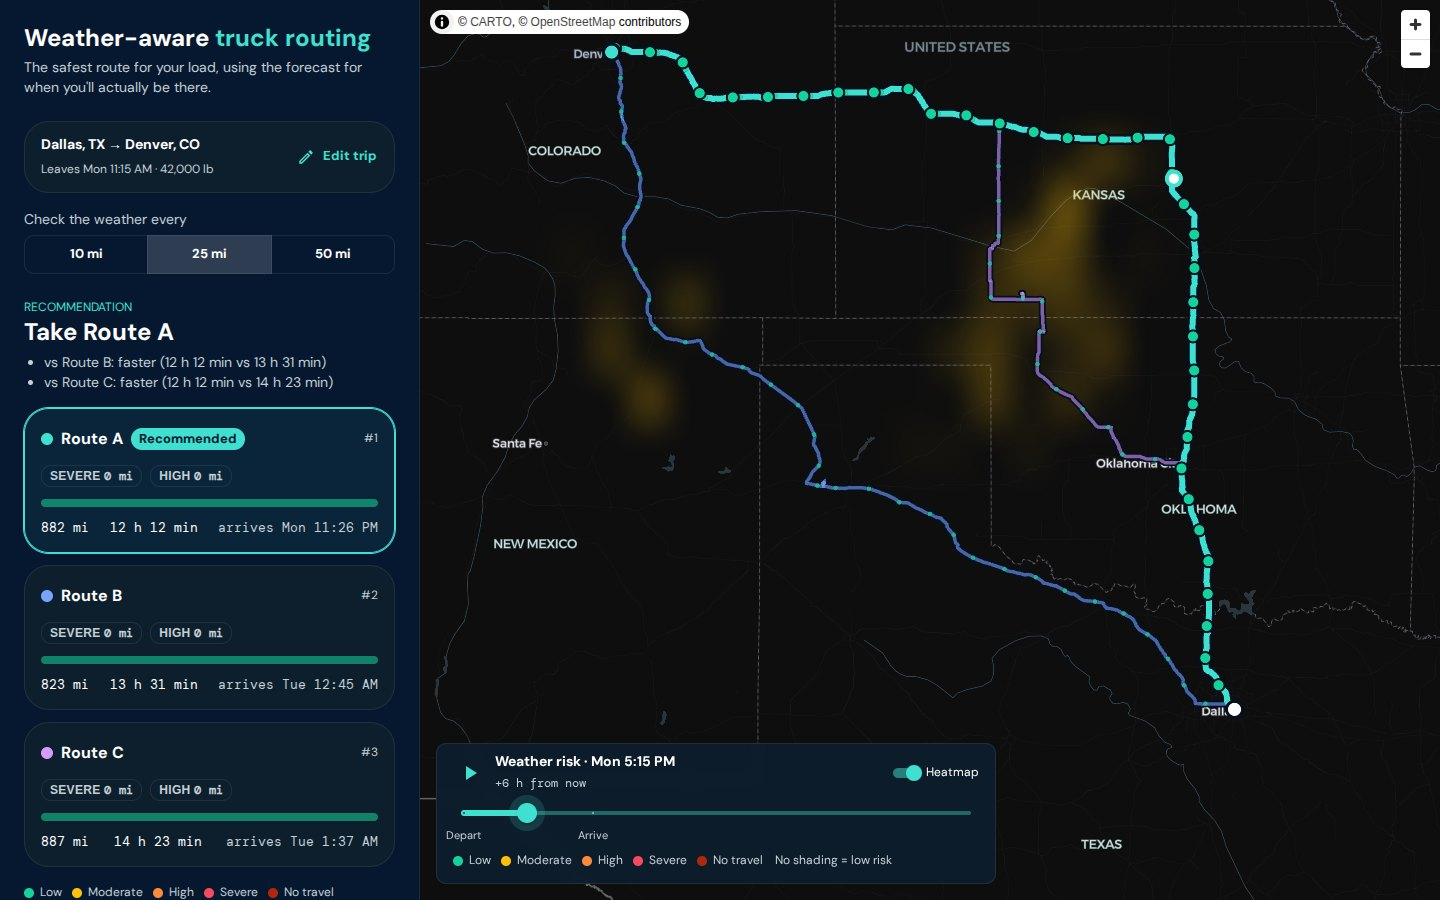
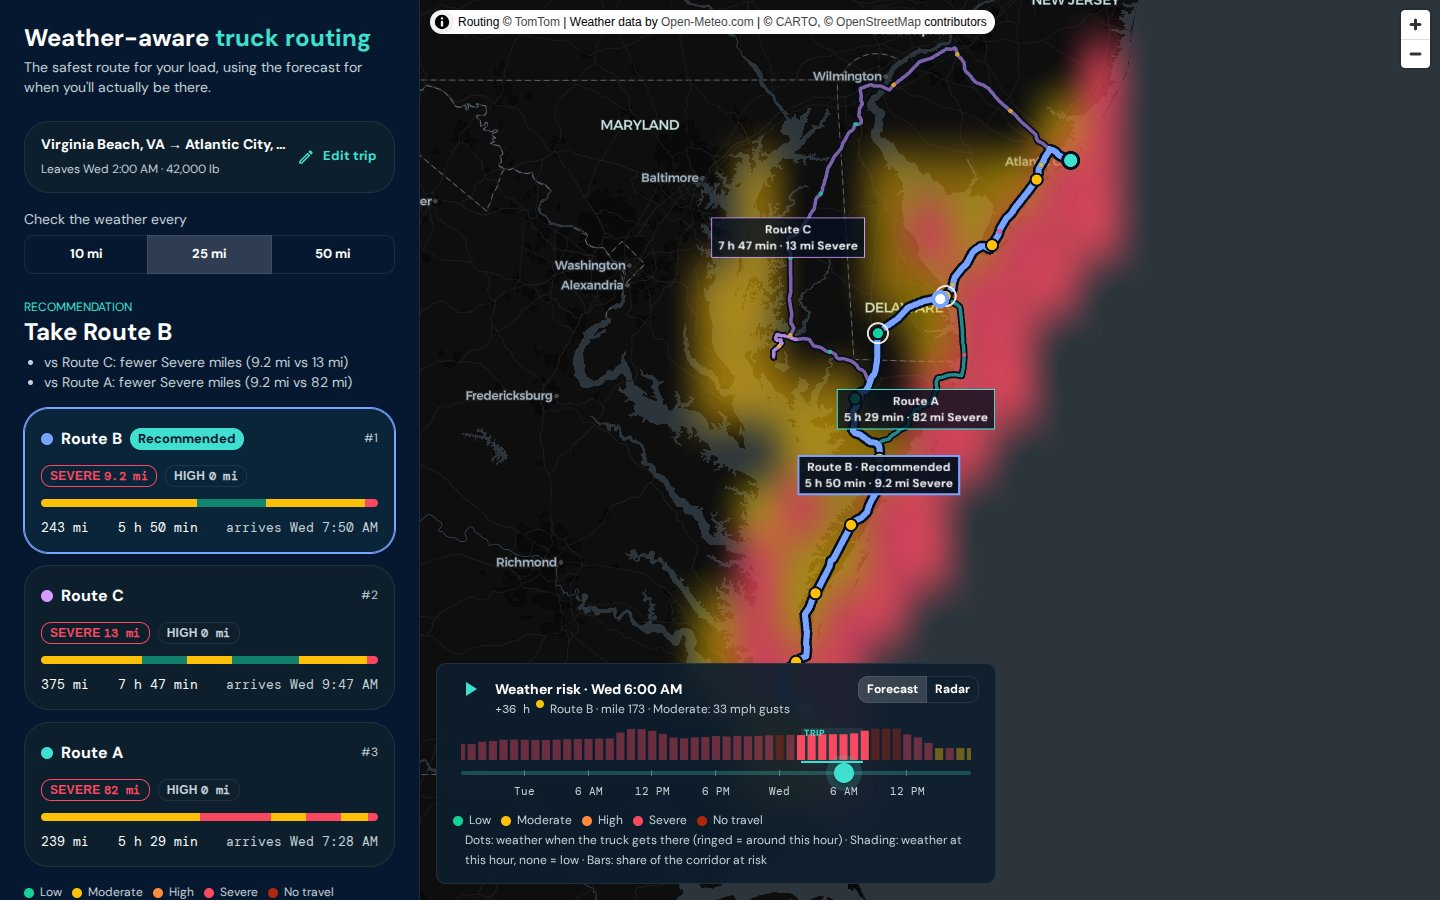
Docs: new screenshot, measured numbers refreshed, brand notes trimmed

diff --git a/README.md b/README.md
@@ -5,7 +5,7 @@ Picks the safest truck route by checking the forecast **at each checkpoint for t
 **Live app:** https://weather-truck-routing-1081490071089.us-central1.run.app
 **Walkthrough (Loom):** _link coming_
 
-![Three Dallas → Denver truck routes on a dark map, with risk-coloured checkpoints, the weather heatmap and the 0–48 h slider](docs/screenshot.jpg)
+![Three Virginia Beach → Atlantic City truck routes through a coastal wind storm, with route labels, risk-coloured checkpoints, the truck position, the forecast heatmap and the risk-over-time chart](docs/screenshot.jpg)
 
 ## What it does
 
@@ -47,7 +47,7 @@ Values within a small tolerance count as ties, so rounding noise never decides a
 | What counts as "Severe miles"? | Each checkpoint covers the road **halfway to its neighbours**, so a route's miles always add up to its length. |
 | Rain rate | Open-Meteo `rain` **+ `showers`**. Showers are reported separately, and leaving them out would miss thunderstorm downpours. |
 | Which forecast hour? | Departure + the routing API's travel time to that point, rounded to the **nearest hour**. |
-| Dots and shading disagree? | They answer different questions. A dot is the forecast **when the truck reaches it**; the shading is the whole corridor **at the slider's hour**. Next to the truck marker (the ringed dots) they line up. The shading is also coarser (cells of 0.25–1°, smoothed) to fit 49 hours in one request. |
+| Dots and shading disagree? | They answer different questions. A dot is the forecast **when the truck reaches it**; the shading is the whole corridor **at the slider's hour**. Both use the same colour per level. Next to the truck marker (the ringed dots) they line up. The shading is also coarser (cells of 0.25–1°, smoothed) to fit 49 hours in one request. |
 | Heatmap "0–48 h" | Hours from **now**, not from departure: it's a forecast for the corridor, and the hours after arrival still show whether leaving later would be safer. The trip window is highlighted and the status line says when the truck hasn't left yet or has already arrived. Low risk is left **unshaded**, so any tint means Moderate or worse. |
 | Departure window | Now to now + 48 h, so every ETA stays inside a reliable forecast. |
 
@@ -96,8 +96,8 @@ Speed and quota choices:
 | Plan a trip, fresh (Dallas → Denver, 3 routes) | **3.3 s** |
 | Plan the same trip, cached | 0.39 s |
 | Heatmap, all 49 hours | 1.5 s · 14 KB |
-| Slider playback (Intel UHD 620, production build) | **60 fps**, slowest frame 16.8 ms |
-| Initial JavaScript | 153 KB brotli; map code lazy-loaded |
+| Slider playback (Intel UHD 620, production build) | **60 fps**, 95% of frames under 16.8 ms |
+| Initial JavaScript | 149 KB brotli; map code lazy-loaded |
 
 The slider never touches the network. Each forecast hour is painted once into a cached GPU texture, and scrubbing only cross-fades between two of them.
 

diff --git a/docs/brand.md b/docs/brand.md
@@ -30,6 +30,3 @@ Screenshots are kept locally in `docs/inspo/` and are not committed, since they 
 - **TMS:** status pills with a count (`OPERATING (184)`) → risk pills on route cards (`SEVERE 12 mi`). Colored day tiles in a weekly row → our per-route risk strip.
 - **Sentinel:** dark glass cards with soft radial teal glows; comparison table with the "winner" row highlighted → our route comparison with the recommended route highlighted.
 - Headlines highlight one key word in turquoise ("Trucking **Automation**").
-
-## Stack signals (job post + site)
-React SPA (hashed `/static/js` bundles), React + **MUI** and Django + **DRF** per the job post, plus PostgreSQL, Redis, GCP and Docker/Kubernetes mentioned in postings.
